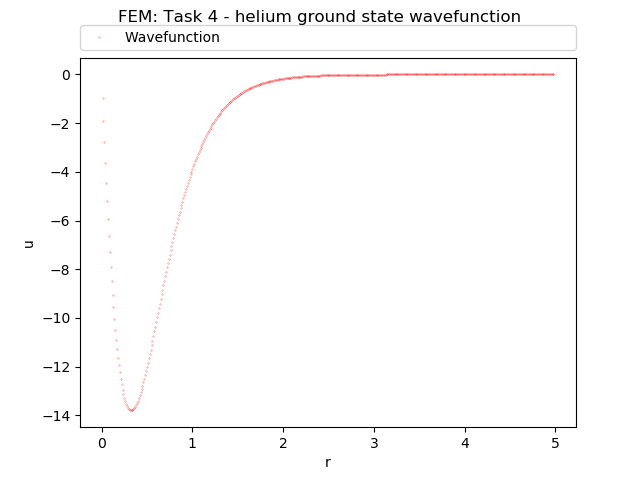
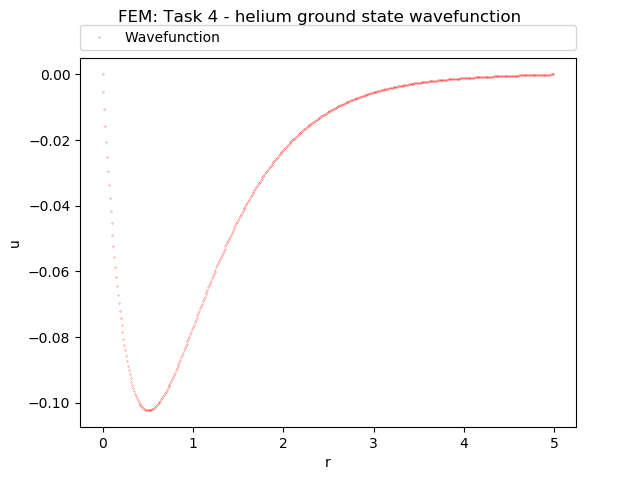
Now with approximately correct energy

diff --git a/venv/FEM.py b/venv/FEM.py
@@ -165,7 +165,7 @@ params = {'A': 0.0311,
 # loop until eigenvalue converges
 nbr_loops = 0
 convergence = False                 # condition that abs(1-epsilon_new/epsilon_old) < conv_ratio
-conv_ratio = 0.000001               # 10^-6 requires about 13 loops
+conv_ratio = 0.000001               # 10^-6 requires about 5 loops for h=0.01
 while not convergence:
     # update wavefunction with limit values
     u_0 = np.insert(u_0, 0, 0.0)            # insert 0.0 at beginning
@@ -236,6 +236,7 @@ while not convergence:
     eigvals, eigvecs = np.linalg.eig(H)  # get eigenvalues and eigenvectors
     eigvecs = np.transpose(eigvecs)      # the eig function returns eigenvalues arranged column-wise
 
+    '''
     # normalize wavefunctions
     for i in range(len(eigvecs)):
         sum = 0
@@ -243,6 +244,7 @@ while not convergence:
             term = h * y * y
             sum += term
         eigvecs[i] /= sum
+    '''
 
     # get index of minimum energy and reset u_0 as the corresponding wavefunction
     index_min = np.argmin(eigvals)
@@ -251,26 +253,30 @@ while not convergence:
 
     # print to debug and track process
     nbr_loops += 1
-    print('After', nbr_loops, 'loops:\t\tindex_min=',index_min, '\t\tEPSILON =', epsilon_new)
-    '''
-    print('\tnp.abs(1 - epsilon_new / epsilon_old):', np.abs(1 - epsilon_new / epsilon_old))
-    print('\tn_densities:', n_densities)
-    print('\tVh:', np.ndarray.tolist(Vh))
-    print('\tVx:',Vx)
-    print('\tVc:',Vc)
-    print('\tV_tot:',np.ndarray.tolist(V_tot))
-    print('\tQ[0]:', np.ndarray.tolist(Q[0]))
-    print('\tQ[-1]:', np.ndarray.tolist(Q[-1]))
-    print('\tA_plus_Q[0]:',np.ndarray.tolist(A_plus_Q[0]))
-    print('\tA_plus_Q[-1]:',np.ndarray.tolist(A_plus_Q[-1]))
-    print('\tNormalization factor:', sum)
-    '''
+    print('After', nbr_loops, 'loops:\t\tEPSILON =', epsilon_new)
+    #print('u_0:',np.ndarray.tolist(u_0))
+
+    # check convergence condition
     if np.abs(1 - epsilon_new / epsilon_old) < conv_ratio:
         convergence = True
     epsilon_old = epsilon_new
 
+# update copy of wavefunction with limit values
+wavefctn = u_0.copy()
+wavefctn = np.insert(wavefctn, 0, 0.0)  # insert 0.0 at beginning
+wavefctn = np.append(wavefctn, 0.0)     # ... and 0.0 at end
+
+'''
+# normalize wavefunction
+sum = 0
+for y in wavefctn:
+    term = h * y * y
+    sum += term
+wavefctn /= sum
+'''
+
 # plot wavefunction
-plt.plot(r[1:-1], u_0, 'ro', markersize=0.2, label='Wavefunction')
+plt.plot(r, wavefctn, 'ro', markersize=0.2, label='Wavefunction')
 plt.xlabel('r')
 plt.ylabel('u')
 plt.suptitle('FEM: Task 4 - helium ground state wavefunction')
@@ -280,10 +286,6 @@ plt.savefig("4-wavefunction.png")
 plt.clf()
 
 # calculate ground state energy
-# update copy of wavefunction with limit values
-wavefctn = u_0.copy()
-wavefctn = np.insert(wavefctn, 0, 0.0)  # insert 0.0 at beginning
-wavefctn = np.append(wavefctn, 0.0)  # ... and 0.0 at end
 energy = eigvals[index_min]          # first term is 2*epsilon = eigenvalue of the solution above
 # get densities - same as above
 n_densities = []
@@ -292,6 +294,19 @@ for j in range(0, len(wavefctn)-1):
 n_densities.append(0.0)
 # add the Vh term to the energy
 Vh_term = 0
+'''
+# get Vh
+b = np.zeros(len(wavefctn))                  # initialize b
+for i in range(len(b)-2):               # calculate b, see eq.45
+    b[i] = (h / 6) * (wavefctn[i] + 4 * wavefctn[i + 1] + wavefctn[i + 2])
+# append approximations at the end where u_0 is approximately zero
+b[-2] = (h / 6) * (wavefctn[-2] + 4 * wavefctn[-1])
+b[-1] = (h / 6) * wavefctn[-1]
+A_inv = np.linalg.inv(A)                # invert A
+Vh = np.dot(A_inv, b[1:-1])             # solve Poisson equation
+Vh = Vh + np.divide(r[1:-1], r_max)     # calculate corresponding wavefunction for single orbital
+Vh = np.divide(Vh, r[1:-1])             # get Hartree potential
+'''
 for j in range(len(n_densities[1:-1])):
     term = h * n_densities[j] * Vh[j]
     Vh_term += term
@@ -350,6 +365,10 @@ for j in range(len(n_densities)):
 energy += Vxc_term
 print('---TASK 4 OUTPUT---')
 print('Ground state energy of Helium:',energy)
+# printouts for debugging
+#print('Vh term:',-0.5*Vh_term)
+#print('Exc term:',Exc_term)
+#print('Vxc term:',Vxc_term)
 
 '''
 # calculate energies
